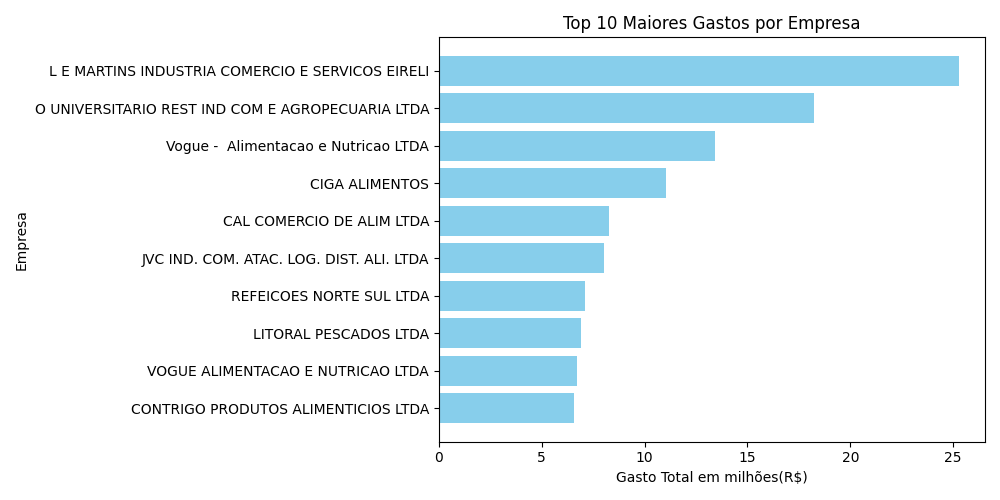
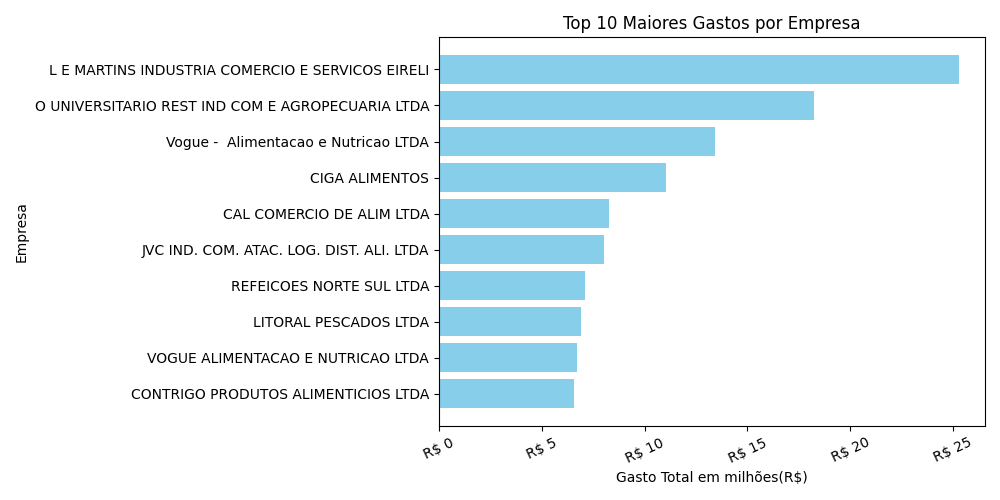
reorganizando o grafico

diff --git a/relatorio_vendas_cnpjs.py b/relatorio_vendas_cnpjs.py
@@ -74,14 +74,17 @@ if coluna_empresa in df_limpo.columns: #se a coluna com as empresas estiver dent
 else:
     print(f"\n[Aviso] Coluna {coluna_empresa} não encontrada. Verifique o nome exato no CSV.")
 
+import matplotlib.ticker as ticker
+
 top_empresas = relatorio_gastos.head(10)
 plt.figure(figsize=(10, 5))
+plt.gca().xaxis.set_major_formatter(ticker.FuncFormatter(lambda x, p: f'R$ {x:,.0f}'.replace(',', '.')))
+plt.gca().invert_yaxis()
+plt.xticks(rotation=25)
 plt.barh(top_empresas[coluna_empresa],top_empresas[coluna_valor] / 1e6, color='skyblue')
 plt.xlabel('Gasto Total em milhões(R$)')
 plt.ylabel('Empresa')
 plt.title('Top 10 Maiores Gastos por Empresa')
-plt.gca().invert_yaxis() # Maior gasto fica no topo
 plt.tight_layout()
 plt.savefig('10_empresas_que_mais_gastam.png')
-
 